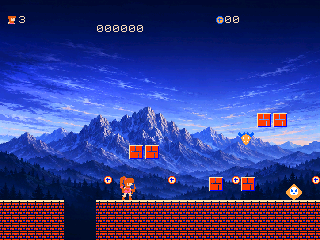
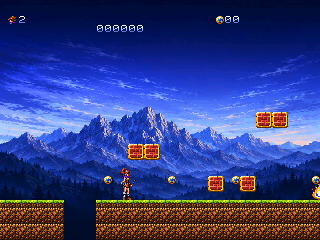
docs: READMEのCoreS3スクショを前景16bit版へ差し替える
タイトル・ステージ開始・ゲーム画面の3枚を、前景16bit版 (df99e9d) を焼いた
CoreS3 実機から撮り直したものへ置き換える。いずれも 320x240。

あわせて説明文を直す。差し替え前の文は「キャラクターと地形は従来のパレット
描画」「16bit版の遠景は表示しません」と書いていたが、いまは主人公・敵・
地形・コインも 65536 色で描くので、写真と文が食い違っていた。

4bit 版の画面 (game-4bit-cores3.png) と 16 色タイトルはそのまま残す。
こちらは 4bit 経路の見た目で、今回の変更対象ではない。

Claude-Session: https://claude.ai/code/session_01LL2GztBzCTCTsApasPjuUA

diff --git a/README.md b/README.md
@@ -9,7 +9,7 @@
 - **音**：NES APUの完全再現ではなく、YM2151 FM＋ADPCM向けにアレンジ。主旋律はトランペット風のFM音色、ドラムは原作DPCMから変換しています。
 - **表示モード選択**：タイトルで `START 4BIT COLOR`（16色・原作風ドット絵）と `START 16BIT COLOR`（65536色・新しい多色背景）を選べます。既定は16bit、コンティニューでは選んだモードを保ちます。操作・ゲームの進行・FM＋ADPCMの音は共通です。
 - **タイトル**：16bit版はイラストと「X68000」表記を追加。CoreS3の右64pxには背景を描き足し、元の絵や文字は引き伸ばしません。まばたき・ロゴの部分的な明滅があり、フェード中は16色へ戻します。4bit版は原作のドット絵を使います。
-- **ゲーム背景**：16bit版では全4面に65536色モードの山と空を追加。ステージ開始画面も右端まで同じ多色背景を使い、台詞と顔の演出を重ねます。ゲーム中の遠景は固定表示で、地形・コイン・キャラクターは従来のパレット描画とスクロールを保ちます。4bit版では従来の背景とラウンド画面へ戻し、エンディングは両モードとも16色です。
+- **ゲーム画面**：16bit版では全4面の山と空に加えて、主人公・敵・地形・コインも65536色で描きます。原作の4bit素材とは別の多色原画を用意し、背景→HUD→地形→キャラクターの順にソフト合成します。ステージ開始画面も右端まで同じ多色背景を使い、台詞と顔の演出を重ねます。4bit版では従来のドット絵・BG背景・ラウンド画面へ戻し、エンディングは両モードとも16色です。
 
 ![表示モードを選べる16bitタイトル（CoreS3実機、320×240）](docs/screenshots/title-menu-16bit-cores3.png)
 
@@ -27,11 +27,11 @@
 
 ![65536色モードの山背景を使ったゲーム画面（CoreS3実機、320×240）](docs/screenshots/game-16bit-cores3.png)
 
-ゲーム画面（CoreS3実機、320×240）。山と空は65536色モード、キャラクターと地形は従来のパレット描画です。
+ゲーム画面（CoreS3実機、320×240）。山と空だけでなく、主人公・地形・ブロック・コインも65536色で描いています。
 
 ![原作風の4bitゲーム画面（CoreS3実機、320×240）](docs/screenshots/game-4bit-cores3.png)
 
-4bit版では従来のドット絵・BG背景で遊べます。右側のゲーム領域外も従来どおりで、16bit版の遠景は表示しません。
+4bit版では従来のドット絵・BG背景で遊べます。右側のゲーム領域外も従来どおりで、16bit版の多色背景・多色キャラクターは表示しません。
 
 実行ファイルはリポジトリ直下の [`GAME.X`](GAME.X)、ゲーム単体ディスクは [`game.xdf`](x68k/dist/game.xdf) です。ディスクはROM・Human68kを含まない非起動版なので、別のHuman68k環境から実行してください（[使い方](x68k/dist/README.md)）。
 
